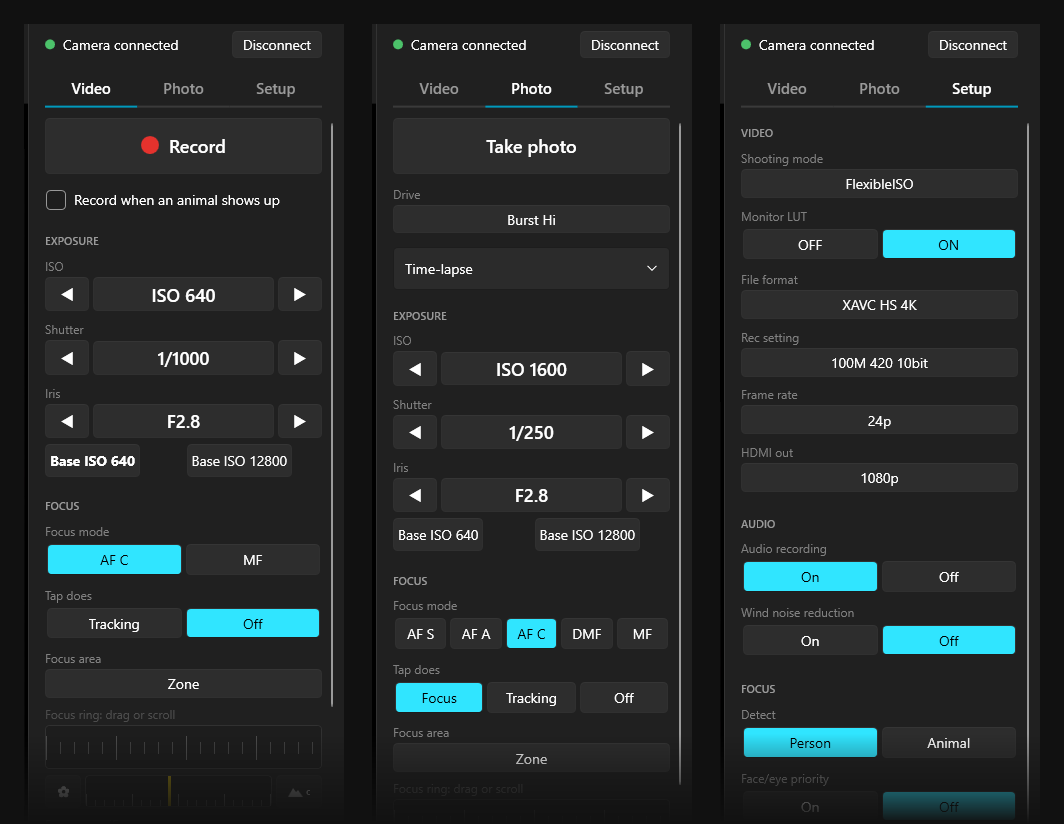
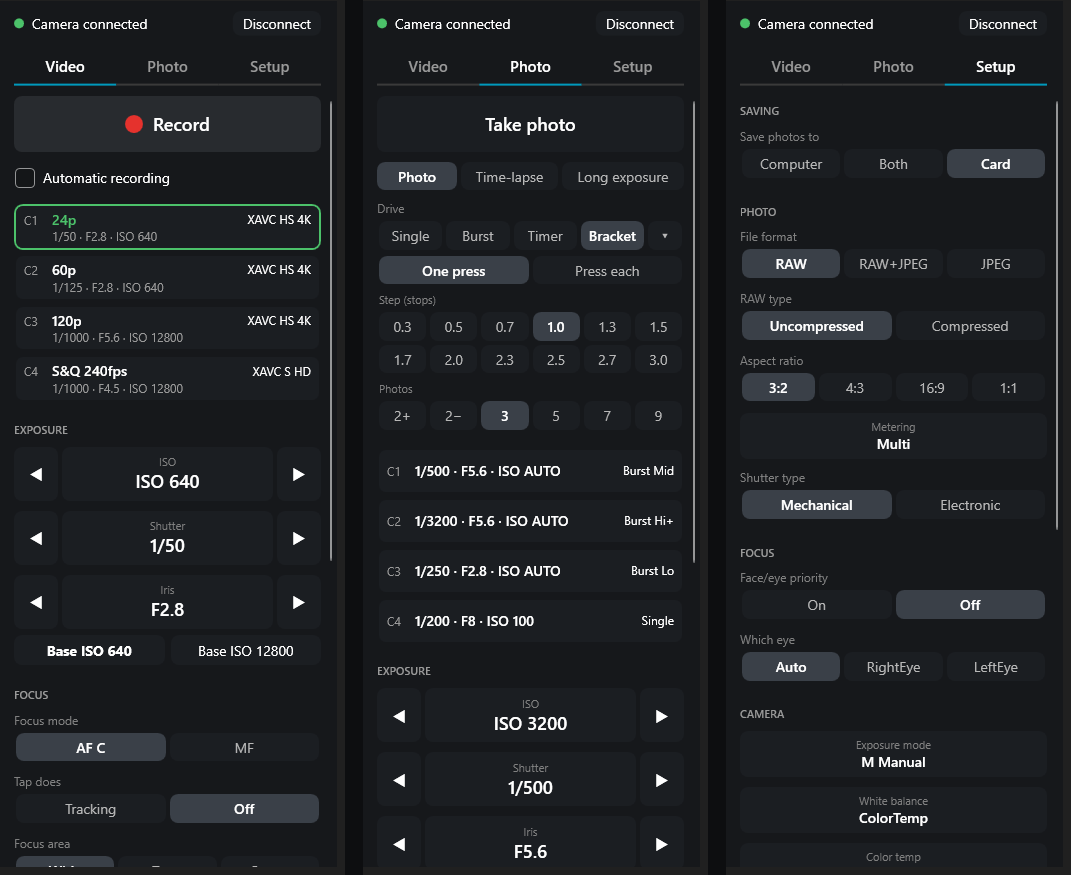
README: new pictures from the 1.0.9 window, and long exposure, Drive and automatic recording
The pictures show the app on a cattle egret photo, so the histogram, peaking and the detector's box are the app's own. Adds the Photo tab's three modes, the floating histogram, rotate under the picture, Super 35 and the new automatic recording choices. Drops pictures nothing uses any more.

diff --git a/README.md b/README.md
@@ -4,9 +4,9 @@
 
 # CamRemote
 
-**The best way to run a Sony camera from your computer.**<br>
-Live picture, focus, exposure, video and photos, all in one window, with no cables.<br>
-It can even start filming by itself when an animal shows up.
+**Run your Sony camera from anywhere.**<br>
+Live picture, focus, exposure, video, photos, slow motion and time-lapse,<br>
+all in one clean window on your computer, with no cables.
 
 <br>
 
@@ -14,68 +14,189 @@ It can even start filming by itself when an animal shows up.
 &nbsp;
 <a href="https://github.com/RemingtonWilcox/CamRemote/releases/latest/download/CamRemote-Mac-AppleSilicon.dmg"><img src="https://img.shields.io/badge/Download_for_Mac-555555?style=for-the-badge" alt="Download for Mac" height="44" /></a>
 
-<sub>Free. No account. No subscription. <a href="https://github.com/RemingtonWilcox/CamRemote/releases/latest/download/CamRemote-Mac-Intel.dmg">Older Intel Mac? Use this one.</a></sub>
+<sub>Free and open source. No account, no subscription, no tracking. <a href="https://github.com/RemingtonWilcox/CamRemote/releases/latest/download/CamRemote-Mac-Intel.dmg">Older Intel Mac? Use this one.</a></sub><br>
+<sub>Tested on the Sony A7S III. <a href="#which-cameras-work">Which cameras work?</a></sub>
 
 <br><br>
 
-<img src="docs/chickadee.jpg" alt="A chickadee on a branch, seen through CamRemote's live view with the camera's focus box on it" width="640" />
+<img src="docs/window.jpg" alt="CamRemote's window: a cattle egret beside a red ginger flower in the live picture, the histogram and meter in the corner, and the Video tab on the right with the Record button, four saved setups and exposure" width="860" />
 
 </div>
 
 <br>
 
-## Why CamRemote
+## Your whole camera, in one window
+
+Everything you'd reach for on the camera is a click away, and the picture stays big in the middle.
 
 <table>
 <tr>
-<td width="50%" valign="top">
-<img src="docs/jay.jpg" alt="CamRemote drawing a green box around a Steller's jay at a bird feeder" />
+<td width="33%" valign="top">
+
+### See it
+
+The live picture over Wi-Fi, or full quality through an HDMI capture card. Histogram, zebras, peaking, a grid and the camera's own meter switch on from the bar under the picture.
+
 </td>
-<td width="50%" valign="top">
+<td width="33%" valign="top">
 
-### It films wildlife for you
+### Focus it
 
-Tick **Automatic recording** and walk away. The app watches the picture, starts recording when an animal shows up, focuses on it, and stops 15 seconds after it leaves.
+Click the picture to focus or track. Drag the focus ring, jump along the focus bar, or magnify to check what's sharp.
 
-This jay landed on the feeder. The app spotted it, rolled, and put a green box around it.
+</td>
+<td width="33%" valign="top">
+
+### Shoot it
+
+Video, photos, bursts, brackets, S&Q slow motion, time-lapse and long exposures. Save to the card, your computer, or both.
 
 </td>
 </tr>
 </table>
 
-### Everything is one click away
+<table>
+<tr>
+<td width="50%" valign="top">
+<img src="docs/peaking.jpg" alt="Close-up of the egret's head and neck in CamRemote, outlined in blue where the picture is sharp" />
+</td>
+<td width="50%" valign="top">
 
-**Video** and **Photo** tabs switch the camera for you and keep what you change while shooting right in front of you. Anything you only set once lives in **Setup**, out of the way.
+### See what's sharp
+
+Click the bird and the camera focuses there. Turn on **Peaking** and the sharp edges light up, like the egret's eye and neck here, so you can tell what's in focus from across the yard. The camera's own focus boxes show what it's locked on, and the magnifier zooms in to check.
+
+</td>
+</tr>
+</table>
+
+### Clean, and quick
+
+Three tabs, nothing hidden in menus. **Video** and **Photo** switch the camera for you and keep what you change while shooting right in front of you. Anything you only set once lives in **Setup**, out of the way.
+
+The histogram and meter float over the corner of the picture: drag them anywhere, drag the corner to resize, and click for zebra and peaking levels. Settings your camera doesn't have are left out, so you only see what works. The window opens at the picture's shape, with no black bars, and comes back where you left it.
+
+The live picture runs at around 20 frames a second over Wi-Fi on the A7S III. If the Wi-Fi drops, the camera keeps recording and the app reconnects by itself.
 
 <p align="center">
-<img src="docs/tabs.png" alt="CamRemote's three tabs side by side: Video with the Record button, Photo with Take photo, Drive and Time-lapse, and Setup with the camera's video, audio and focus settings" width="760" />
+<img src="docs/tabs.png" alt="CamRemote's three tabs side by side: Video with the Record button and four saved setups, Photo with Take photo and the Drive choices, and Setup with saving, photo and focus settings" width="760" />
 </p>
+
+<br>
+
+## Run it from anywhere
+
+Hide the camera by a feeder, up a tree or across the yard, and run it from wherever you are.
 
 <table>
 <tr>
-<td width="33%" valign="top">
+<td width="50%" valign="top">
 
-### Real tools
+### From your phone
 
-Histogram, zebras, peaking, the camera's meter, a focus ring, a focus magnifier, and one-click base ISO on the A7S III.
-
-</td>
-<td width="33%" valign="top">
-
-### Put it anywhere
-
-Hide the camera by a feeder, up a tree or across the yard. If Wi-Fi drops, it keeps recording and the app reconnects by itself.
+Tick **Allow phone control** in **Setup** and open the address it shows on your phone. You get the live picture, record, tap to focus, the focus ring and the camera's settings. It works on your home Wi-Fi, and from anywhere with [Tailscale](https://tailscale.com).
 
 </td>
-<td width="33%" valign="top">
+<td width="50%" valign="top">
 
-### It's yours
+### From a computer, through your iPhone
 
-Free and open source. No account, no subscription, no tracking.
+No Wi-Fi where the camera is? Put it on your iPhone's hotspot, open the CamRemote iPhone app, and run it from a computer somewhere else over Tailscale. This comes with the [iPhone app](#coming-soon-camremote-for-iphone), which isn't out yet.
 
 </td>
 </tr>
 </table>
+
+<br>
+
+## Your setups, one click away
+
+**C1 to C4** save how the camera is set right now: mode, exposure, focus, and for video the file format and frame rate. The Video and Photo tabs each have their own four. Each button shows what's in it, like **S&Q 240fps** in XAVC S HD with its shutter, iris and ISO, and turns green while the camera matches it.
+
+**S&Q slow motion** is right on the Video tab. Pick how fast the camera shoots and how fast it plays back: 240fps played at 24p is ten times slower. Save that to C1 and slow motion is one click away.
+
+<p align="center">
+<img src="docs/presets.png" alt="The Video tab with four saved setups: 24p, 60p and 120p in XAVC HS 4K, and S&Q 240fps in XAVC S HD, each with its shutter, iris and ISO" width="345" />
+</p>
+
+<br>
+
+## Photos, time-lapse and long exposures
+
+The Photo tab has three ways to shoot:
+
+- **Photo:** pick **Single**, **Burst**, **Timer** or **Bracket** under **Drive**, then just the choices for that one: burst speed, timer delay, or bracket step and number of photos.
+- **Time-lapse:** pick how often and how many, and press **Start time-lapse**. The app tells you how long it'll shoot and how long the clip will play. It takes one photo every 1 to 60 seconds, up to 9,999 photos, using the camera's own interval shooting.
+- **Long exposure:** pick a length from 1 second to 8 minutes. Up to 30 seconds the camera times it. Longer, the app holds the shutter open on Bulb, so keep the window open until it's done. Tell it the ND filter on your lens and it suggests a length from the meter.
+
+<p align="center">
+<img src="docs/photo-modes.png" alt="The Photo tab three ways: Photo with a 1-stop, 3-photo bracket, Time-lapse with one photo every 10 seconds, and Long exposure set to 30 seconds with ND filter choices" width="760" />
+</p>
+
+<br>
+
+## It can even film wildlife for you
+
+Tick **Automatic recording** and walk away. The app watches the picture, starts recording when something shows up, focuses on it, and stops once it's been gone for a while.
+
+- **Record when it sees:** any **Animal**, a **Bird** only, or a **Person**.
+- **Stop once it's been gone for:** 10 seconds, 15 seconds, 30 seconds or a minute.
+- **Focus on it:** on or off.
+
+Here it has spotted the egret, started recording, put a green box around it and a red outline around the picture. The check runs on your computer, and no pictures leave it.
+
+<p align="center">
+<img src="docs/automatic-recording.jpg" alt="Automatic recording in CamRemote: a green box labelled animal around the egret, a red recording outline, REC 00:00:09 at the top left, and Animal, 15 s and Focus on it picked on the right" width="860" />
+</p>
+
+<br>
+
+## Coming soon: CamRemote for iPhone
+
+Run the camera with no computer at all, just your phone and its hotspot. The iPhone app has the live picture, tap to focus, exposure, video, S&Q, photos, burst, time-lapse, C1 to C3 saved setups and the animal trigger, and it can hand the camera to a computer anywhere over Tailscale.
+
+**You can't download it yet.** It's still being tested, and it'll come to TestFlight, Apple's beta testing app, first. [More about it](#on-your-iphone).
+
+<br>
+
+## Everything it does
+
+| | |
+|---|---|
+| **See** | Live view over Wi-Fi, or full quality through an HDMI capture card. Rotate it for a camera on its side |
+| **Focus** | Click the picture to focus or track, in MF or DMF drag the focus ring or jump along the focus bar. Focus boxes show what the camera is doing |
+| **Check focus** | Focus magnifier and peaking |
+| **Expose** | ISO, shutter and iris, with a histogram, zebras, the camera's meter and one-click base ISO on the A7S III |
+| **Record** | One big button, with a red outline around the picture while rolling |
+| **Slow motion** | S&Q, up to 240fps in HD on the A7S III |
+| **Shoot photos** | Single shots, bursts, self-timer, brackets, time-lapses and long exposures, saved to your card, your computer or both |
+| **Save your setups** | **C1** to **C4**, four for video and four for photos, each back with one click |
+| **Set up the camera** | Video format, frame rate, Super 35 crop, RAW or JPEG, white balance, audio and more, without touching a menu |
+| **Use both cards** | See what's left on each slot, and format a card from the app. It asks first |
+| **Run it from anywhere** | Phone control at home or over Tailscale, and soon from a computer through the iPhone app |
+| **Film wildlife** | **Automatic recording** starts and stops for animals, birds or people |
+| **Stay informed** | Battery and card warnings before you run out |
+| **Stop worrying** | Reconnects by itself, and the camera keeps recording if Wi-Fi drops |
+| **Get help** | **Send log to the developer** in **Setup** sends what went wrong in one click, only when you press it |
+
+**Handy keys:** **H** histogram · **Z** zebras · **P** peaking · **G** grid · **R** rotate · **F9** record, take a photo or start a long exposure (on a Mac, you may need to hold **fn**)
+
+<br>
+
+## Set it up in 3 steps
+
+Allow about 10 minutes. You only do this once.
+
+| | | |
+|---|---|---|
+| **1** | **[Install the app](#1-install-the-app)** | 2 minutes |
+| **2** | **[Set up your camera](#2-set-up-your-camera)** | 5 minutes |
+| **3** | **[Connect](#3-connect)** | 1 minute |
+
+> [!TIP]
+> **Have an AI assistant?** It can walk you through all of this. [Here's what to paste](#let-your-ai-do-it).
+
+**You'll need:** [a supported camera](#which-cameras-work), Wi-Fi at the place you're shooting, and a Windows 11 PC or a Mac on macOS 14.1 or newer.
 
 <br>
 
@@ -97,53 +218,6 @@ Update your camera to its latest firmware first. Some features, such as click to
 **A9 II:** Sony doesn't list it for Wi-Fi, but a user has it connected, with click to focus working. On the camera, turn **Ctrl w/ Smartphone** off, join your Wi-Fi under **Wi-Fi Settings › Access Point Set.**, then under **PC Remote Function** turn **PC Remote** on, set **PC Remote Cnct Method** to **Wi-Fi Access Point**, and choose **Pairing** while CamRemote is searching. To click to focus, set **Focus area** to **Spot S**, **Spot M** or **Spot L** (the camera calls them Flexible Spot). Time-lapse and card formatting don't work on it.
 
 **Won't work over Wi-Fi:** A7R IV, A7R IVA, A7C, RX0 II, BRC-AM7 and FR7. Cameras not listed at all, such as the A7 III or a6400, aren't supported by Sony's software.
-
-<br>
-
-## How it works
-
-<p align="center">
-<img src="docs/how-it-works.svg" alt="The camera and CamRemote talk over Wi-Fi, an HDMI capture card can add a sharper picture, and your phone can join in. When an animal appears, the app spots it, the camera records and focuses on it, and it stops 15 seconds after the animal leaves." width="860" />
-</p>
-
-<br>
-
-## Everything it does
-
-| | |
-|---|---|
-| **See** | Live view over Wi-Fi, or full quality through an HDMI capture card. Rotate it for a camera on its side |
-| **Focus** | Click the picture to focus or track, in MF or DMF drag the focus ring or jump along the focus bar. Focus boxes show what the camera is doing |
-| **Check focus** | Focus magnifier and peaking |
-| **Expose** | ISO, shutter and iris, with a histogram, zebras and the camera's meter |
-| **Record** | One big button, with a red outline around the picture while rolling |
-| **Shoot photos** | Single shots, bursts and time-lapses, saved to your card, your computer or both |
-| **Film wildlife** | **Automatic recording** does the rest |
-| **Set up the camera** | Video format, frame rate, S&Q slow motion, RAW or JPEG, white balance, audio and more, without touching a menu |
-| **Save your setups** | **C1** to **C4**, four for video and four for photos, each back with one click |
-| **Format a card** | Click **▾** next to the card readout. It asks first |
-| **Use your phone** | Tick **Allow phone control** in **Setup**, then open the address it shows |
-| **Stay informed** | Battery and card warnings before you run out |
-| **Stop worrying** | Reconnects by itself, and the camera keeps recording if Wi-Fi drops |
-
-**Handy keys:** **H** histogram · **Z** zebras · **P** peaking · **G** grid · **F9** record or take a photo (on a Mac, you may need to hold **fn**)
-
-<br>
-
-## Set it up in 3 steps
-
-Allow about 10 minutes. You only do this once.
-
-| | | |
-|---|---|---|
-| **1** | **[Install the app](#1-install-the-app)** | 2 minutes |
-| **2** | **[Set up your camera](#2-set-up-your-camera)** | 5 minutes |
-| **3** | **[Connect](#3-connect)** | 1 minute |
-
-> [!TIP]
-> **Have an AI assistant?** It can walk you through all of this. [Here's what to paste](#let-your-ai-do-it).
-
-**You'll need:** [a supported camera](#which-cameras-work), Wi-Fi at the place you're shooting, and a Windows 11 PC or a Mac on macOS 14.1 or newer.
 
 <br>
 
@@ -246,6 +320,8 @@ Don't ask me for my camera password.
 
 ## Something not working?
 
+**Send the developer a log.** In **Setup**, under **Something not working?**, say what happened if you like and click **Send log to the developer**. You'll get a short reference, like K7Q2MX, to quote when you get in touch. Nothing is sent until you click. The log includes your camera's model and its address on your home network, but no passwords, photos or video, and it's kept for 90 days.
+
 <details>
 <summary><b>My camera isn't in the list</b></summary>
 
@@ -336,7 +412,7 @@ That's normal after resetting the camera or changing its Access Authen. settings
 | **Wi-Fi live view** | 1024×576 at around 20 frames a second on the A7S III |
 | **Photos to your computer** | Full size, or a small JPEG. A full-size RAW took 4 to 12 seconds on the A7S III in our tests, depending on your network |
 | **Time-lapse** | One photo every 1 to 60 seconds, up to 9,999 photos, using the camera's own interval shooting |
-| **Animal detection** | Runs on your computer once a second. It knows birds and common mammals, and no pictures leave your computer |
+| **Animal detection** | Runs on your computer once a second. It knows birds, common mammals and people, and no pictures leave your computer |
 | **Phone control** | A web page on your phone, over your home network or Tailscale, protected by an access code. The computer stays on with the app open |
 | **Your camera password** | Stays on your computer, in Windows Credential Manager or your Mac's Keychain |
 | **Built on** | Sony's Camera Remote SDK v2.02.00 |
@@ -378,13 +454,17 @@ If you'd use one of these, [open an issue](https://github.com/RemingtonWilcox/Ca
 - **Tap does:** Focus, Tracking or Off. Off stops clicks doing anything. Sony's SDK doesn't offer the setting for a remote tap's function on the A7S III, so Tracking may only focus. The app tells you if the camera didn't start tracking.
 - **Picture source:** in **Setup**. **Camera over Wi-Fi** needs no cable. Any HDMI capture card your computer sees is listed too. Plugged one in after opening the app? Click **↻**. Set the camera's **HDMI Resolution** to **1080p** and turn **HDMI Info. Display** off. On a Mac, the app asks for Camera and Microphone access the first time you pick one.
 - **Format a card:** click **▾** next to the card readout. It works while the camera isn't recording, erases the whole card, and asks first. The app can't tell whether you've copied your footage off, so check that yourself.
-- **Rotate:** ⟲ / ⟳ in **Setup**, for a camera mounted in portrait.
-- **Burst:** set **Drive** to a burst speed, then hold **Take photo** down.
+- **Rotate:** ⟲ / ⟳ at the right of the bar under the picture, or **R** (Shift+R turns the other way), for a camera mounted on its side. The window reshapes to fit.
+- **Histogram and meter:** drag the box to move it anywhere over the picture, and drag its corner to resize it. Click it, or **Levels ▴** under the picture, to set the zebra level and the peaking strength and colour.
+- **Drive:** **Single**, **Burst**, **Timer** or **Bracket**, then that one's choices. For a bracket, **One press** takes the whole set and **Press each** takes one photo of it per press, and **2+** and **2−** take the normal photo and one brighter or darker. Other drive modes your camera has, like white balance brackets, are under **▾**.
+- **Burst:** pick **Burst** and a speed under **Drive**, then hold **Take photo** down.
+- **Long exposure:** needs the camera in **M**. Up to 30 seconds the camera times it itself. Longer ones use Bulb, with this app holding the shutter, so keep the window open and the computer awake until it's done. With **Long Exposure NR** on, the camera then takes as long again to finish. When you go back to **Photo**, your shutter speed comes back.
+- **Super 35 crop:** in **Setup**, on cameras that have it, like the A7S III and FX3. No Sony camera in this list records Open Gate over Sony's software.
 - **C1 to C4:** click an empty one to save how the camera is set now: mode, exposure, focus, and for video the format and frame rate. Click it again later to put all of that back. The Video and Photo tabs each have their own four. A preset turns green while the camera matches it. Right-click to save over it or clear it (Control-click on a Mac). If the camera's mode dial is somewhere a preset can't reach, the app says so.
 - **S&Q (slow and quick motion):** under **Recording** on the Video tab, switch between **Normal** and **S&Q**. In S&Q, **S&Q shoots at** is how many frames a second the camera captures, and **S&Q plays at** is the speed it's played back at, so 240fps played at 24p is ten times slower. The fastest rates need an HD file format. Save one to a preset, like 1080p at 240fps on C1, to get to it in one click.
-- **Time-lapse:** open **Time-lapse** under **Drive** and turn it on. The big button then says **Start time-lapse**, and **Stop time-lapse** once it's running.
+- **Time-lapse:** pick **Time-lapse** at the top of the Photo tab. The big button then says **Start time-lapse**, and **Stop time-lapse** once it's running.
 - **Photos on your computer:** choose **Computer**, **Card** or **Both** under **Saving** in **Setup**. They go to `Pictures/CamRemote` until you click **Change folder**. A full-size RAW can take 4 to 12 seconds to arrive, so for bursts and time-lapses use **Both** with **Small JPEG**: the card keeps the full files.
-- **Automatic recording:** turn it on under **Record** and leave **Record when it sees** on **Animal**. It runs on your computer, and no pictures leave it. It knows birds and a few other animals (cats, dogs, horses, sheep, cows, elephants, bears, zebras and giraffes), and something it doesn't know, like a squirrel, may not set it off. A green box follows the animal while the option is on. Set **Rotate** to match how the camera is mounted first: it sees far better the right way up. Takes stop at 5 minutes and start again if the animal is still there. If it keeps being set off by something that isn't an animal, like splashing water, it learns to ignore that spot for 10 minutes. It only stops takes it started itself.
+- **Automatic recording:** turn it on under **Record**, then pick what to watch for, how long to wait after it's gone, and whether to focus on it. It runs on your computer, and no pictures leave it. **Animal** means birds and a few other animals (cats, dogs, horses, sheep, cows, elephants, bears, zebras and giraffes), and something it doesn't know, like a squirrel, may not set it off. **Bird** ignores everything else, and **Person** watches for people instead. A green box follows what it found while the option is on. Set **Rotate** to match how the camera is mounted first: it sees far better the right way up. Takes stop at 5 minutes and start again if the animal is still there. If it keeps being set off by something that isn't an animal, like splashing water, it learns to ignore that spot for 10 minutes. It only stops takes it started itself.
 - **Updates:** when the app opens, it asks GitHub once for the latest version number. If there's a newer one, a green button appears at the bottom of the window. It opens the download page and installs nothing by itself.
 - **Shooting guides:** worked out from the preview, not the recorded file, so a Monitor LUT changes them. At Wi-Fi preview size, peaking shows the plane of focus. Use the magnifier for critical focus.
 - **Recording timer:** keeps counting through a dropped link or an app restart. A take already rolling when the app first sees it shows a **+**.
